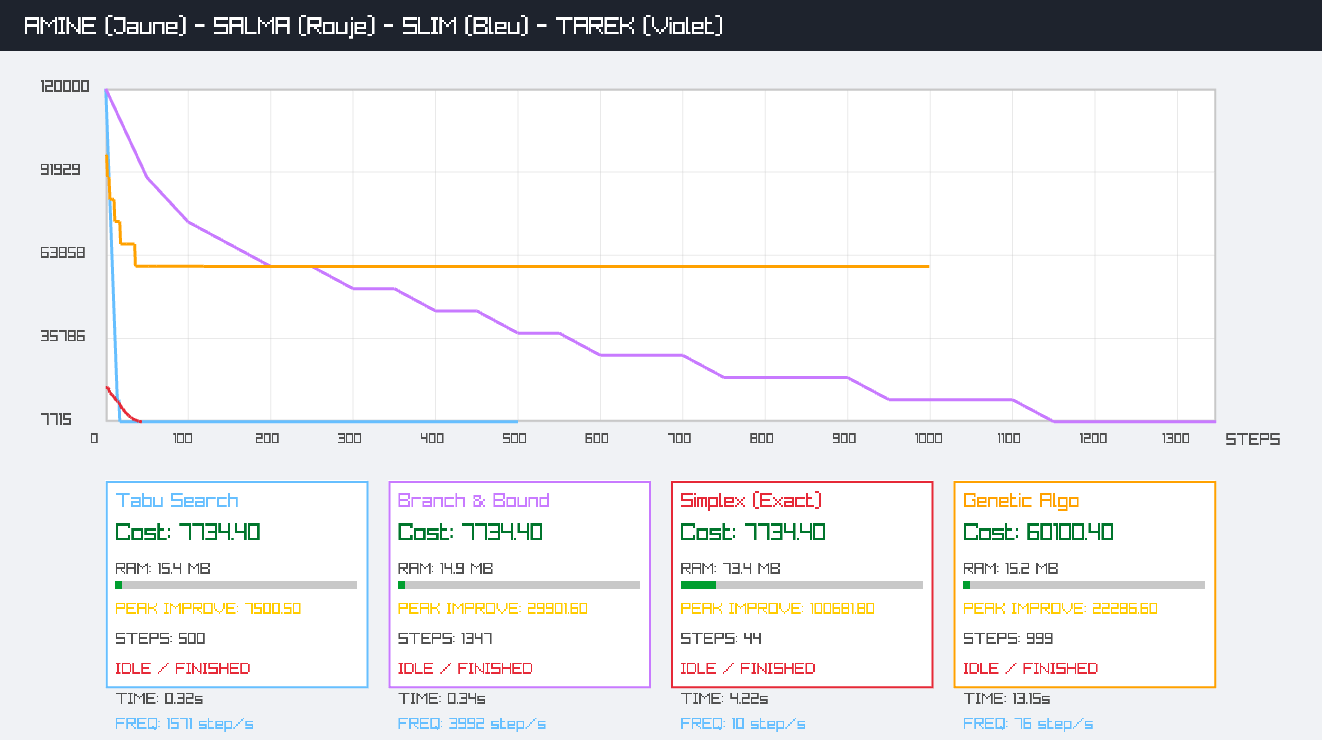
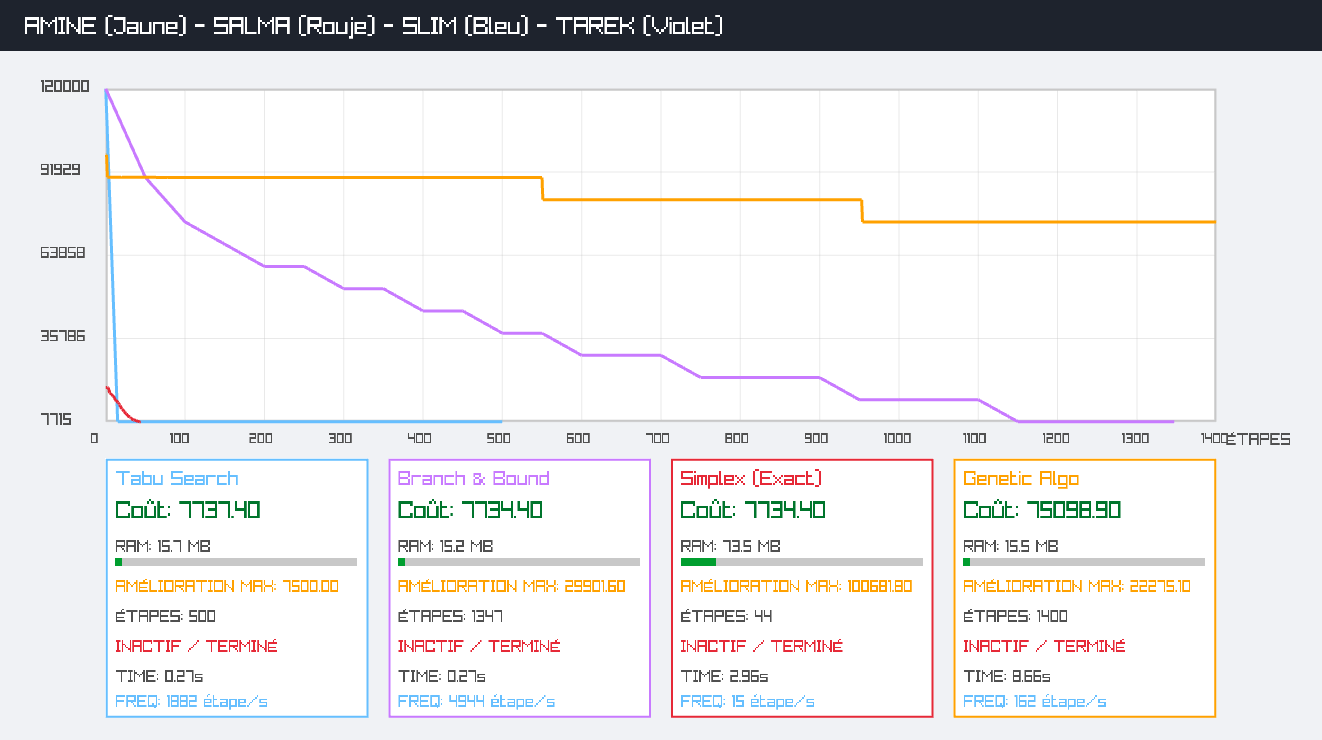
1881

diff --git a/main.cpp b/main.cpp
@@ -34,7 +34,7 @@ std::vector<Algorithm> algos;
 std::mutex dataMutex;
 auto startTime = std::chrono::high_resolution_clock::now();
 
-void RunAlgorithm(int index) {
+void RunAlgorithm(const int index) {
     {
         std::lock_guard<std::mutex> lock(dataMutex);
         algos[index].startTime = std::chrono::high_resolution_clock::now();
@@ -75,7 +75,7 @@ void RunAlgorithm(int index) {
         algos[index].elapsedTime = std::chrono::duration<float>(now - algos[index].startTime).count();
 
         if (algos[index].elapsedTime > 0) {
-            algos[index].stepsPerSecond = algos[index].currentStep / algos[index].elapsedTime;
+            algos[index].stepsPerSecond = static_cast<float>(algos[index].currentStep) / algos[index].elapsedTime;
         }
     }
     std::lock_guard<std::mutex> lock(dataMutex);
@@ -89,7 +89,7 @@ int main() {
     InitWindow(1280, 900, "Supply Chain Optimization: Telemetry Dashboard");
     SetTargetFPS(60);
 
-    Font font = LoadFontEx("resources/Inter-Medium.ttf", 32, 0, 250);
+    Font font = LoadFontEx("resources/Inter-Medium.ttf", 32, nullptr, 250);
     if (font.texture.id == 0) font = GetFontDefault();
 
     algos.push_back({"Tabu Search", SKYBLUE, "python3 algorithms/tabu_search.py data/benchmark_large.json"});
@@ -98,16 +98,17 @@ int main() {
     algos.push_back({"Genetic Algo", ORANGE, "python3 algorithms/genetic_algo.py data/benchmark_large.json"});
 
     std::vector<std::thread> threads;
-    for (size_t i = 0; i < algos.size(); i++) threads.push_back(std::thread(RunAlgorithm, i));
+    for (size_t i = 0; i < algos.size(); i++) threads.emplace_back(RunAlgorithm, i);
 
     while (!WindowShouldClose()) {
-        float sw = (float)GetScreenWidth(), sh = (float)GetScreenHeight();
-        Rectangle graph = { sw * 0.08f, sh * 0.12f, sw * 0.84f, sh * 0.45f };
+        const auto sw = static_cast<float>(GetScreenWidth());
+        const auto sh = static_cast<float>(GetScreenHeight());
+        const Rectangle graph = { sw * 0.08f, sh * 0.12f, sw * 0.84f, sh * 0.45f };
 
         BeginDrawing();
         ClearBackground({ 240, 242, 245, 255 });
 
-        DrawRectangle(0, 0, sw, sh * 0.07f, { 30, 35, 45, 255 });
+        DrawRectangle(0, 0, static_cast<int>(sw), static_cast<int>(sh * 0.07f), { 30, 35, 45, 255 });
         DrawTextEx(font, "AMINE (Jaune) - SALMA (Rouje) - SLIM (Bleu) - TAREK (Violet)", { 25, sh * 0.02f }, 24, 1, WHITE);
 
         int maxSteps = 100;
@@ -131,9 +132,9 @@ int main() {
 
 
         for (int i = 0; i <= 4; i++) {
-            float fraction = (float)i / 4.0f;
-            float costVal = minC + (renderMax - minC) * fraction;
-            float yPos = (graph.y + graph.height) - (fraction * graph.height);
+            const float fraction = static_cast<float>(i) / 4.0f;
+            const float costVal = minC + (renderMax - minC) * fraction;
+            const float yPos = (graph.y + graph.height) - (fraction * graph.height);
 
             DrawLineEx({graph.x, yPos}, {graph.x + graph.width, yPos}, 1.0f, {200, 200, 200, 100});
 
@@ -146,7 +147,7 @@ int main() {
         if (maxSteps > 10000) stepInterval = 2000;
 
         for (int s = 0; s <= maxSteps; s += stepInterval) {
-            float xPos = graph.x + ((float)s / maxSteps) * graph.width;
+            const float xPos = graph.x + (static_cast<float>(s) / static_cast<float>(maxSteps)) * graph.width;
 
             DrawLineEx({xPos, graph.y}, {xPos, graph.y + graph.height}, 1.0f, {200, 200, 200, 100});
 
@@ -154,64 +155,65 @@ int main() {
             DrawTextEx(font, TextFormat("%d", s), {xPos - 15, graph.y + graph.height + 10}, 14, 1, DARKGRAY);
         }
 
-        DrawTextEx(font, "STEPS", {graph.x + graph.width + 10, graph.y + graph.height + 10}, 16, 1, DARKGRAY);
+        DrawTextEx(font, "ÉTAPES", {graph.x + graph.width + 10, graph.y + graph.height + 10}, 16, 1, DARKGRAY);
 
         {
             std::lock_guard<std::mutex> lock(dataMutex);
             for (auto& a : algos) {
                 if (a.points.empty()) continue;
 
-                float costRange = (renderMax - minC == 0) ? 1.0f : (renderMax - minC);
-                float stepRange = (maxSteps == 0) ? 1.0f : (float)maxSteps;
+                const float costRange = (renderMax - minC == 0) ? 1.0f : (renderMax - minC);
+                const float stepRange = (maxSteps == 0) ? 1.0f : static_cast<float>(maxSteps);
 
-                float val0 = std::clamp(a.points[0].cost, minC, renderMax);
-                float y0 = (graph.y + graph.height) - ((val0 - minC) / costRange) * graph.height;
-                float x_first = graph.x + ((float)a.points[0].step / stepRange) * graph.width;
+                const float val0 = std::clamp(a.points[0].cost, minC, renderMax);
+                const float y0 = (graph.y + graph.height) - ((val0 - minC) / costRange) * graph.height;
+                const float x_first = graph.x + (static_cast<float>(a.points[0].step) / stepRange) * graph.width;
                 DrawLineEx({graph.x, y0}, {x_first, y0}, 3.0f, a.color);
 
                 for (size_t i = 1; i < a.points.size(); i++) {
-                    float v1 = std::clamp(a.points[i-1].cost, minC, renderMax);
-                    float v2 = std::clamp(a.points[i].cost, minC, renderMax);
+                    const float v1 = std::clamp(a.points[i-1].cost, minC, renderMax);
+                    const float v2 = std::clamp(a.points[i].cost, minC, renderMax);
 
-                    float x1 = graph.x + ((float)a.points[i-1].step / stepRange) * graph.width;
-                    float x2 = graph.x + ((float)a.points[i].step / stepRange) * graph.width;
-                    float y1 = (graph.y + graph.height) - ((v1 - minC) / costRange) * graph.height;
-                    float y2 = (graph.y + graph.height) - ((v2 - minC) / costRange) * graph.height;
+                    const float x1 = graph.x + (static_cast<float>(a.points[i - 1].step) / stepRange) * graph.width;
+                    const float x2 = graph.x + (static_cast<float>(a.points[i].step) / stepRange) * graph.width;
+                    const float y1 = (graph.y + graph.height) - ((v1 - minC) / costRange) * graph.height;
+                    const float y2 = (graph.y + graph.height) - ((v2 - minC) / costRange) * graph.height;
 
                     DrawLineEx({x1, y1}, {x2, y2}, 3.0f, a.color);
                 }
             }
         }
 
-        float boxW = (graph.width / 4) - 15;
+        const float boxW = (graph.width / 4) - 15;
         for (int i = 0; i < 4; i++) {
-            float bx = graph.x + i * (boxW + 20), by = sh * 0.65f;
-            DrawRectangle(bx, by, boxW, sh * 0.28f, WHITE);
-            DrawRectangleLinesEx({bx, by, boxW, sh * 0.28f}, 2, algos[i].color);
+            const float bx = graph.x + static_cast<float>(i) * (boxW + 20);
+            const float by = sh * 0.62f;
+            DrawRectangle(static_cast<int>(bx), static_cast<int>(by), static_cast<int>(boxW), static_cast<int>(sh * 0.35f), WHITE);
+            DrawRectangleLinesEx({bx, by, boxW, sh * 0.35f}, 2, algos[i].color);
 
 
             DrawTextEx(font, algos[i].name.c_str(), {bx + 10, by + 10}, 20, 1, algos[i].color);
-            DrawTextEx(font, TextFormat("Cost: %.2f", algos[i].currentCost), {bx + 10, by + 40}, 24, 1, DARKGREEN);
+            DrawTextEx(font, TextFormat("Coût: %.2f", algos[i].currentCost), {bx + 10, by + 40}, 24, 1, DARKGREEN);
 
             float memPerc = algos[i].memoryUsage / 500.0f;
-            Color memCol = (memPerc > 0.8f) ? RED : (memPerc > 0.4f) ? ORANGE : LIME;
+            const Color memCol = (memPerc > 0.8f) ? RED : (memPerc > 0.4f) ? ORANGE : LIME;
             DrawTextEx(font, TextFormat("RAM: %.1f MB", algos[i].memoryUsage), {bx + 10, by + 80}, 16, 1, DARKGRAY);
-            DrawRectangle(bx + 10, by + 100, boxW - 20, 8, LIGHTGRAY);
-            DrawRectangle(bx + 10, by + 100, (boxW - 20) * std::min(memPerc, 1.0f), 8, memCol);
+            DrawRectangle(static_cast<int>(bx) + 10, static_cast<int>(by) + 100, static_cast<int>(boxW) - 20, 8, LIGHTGRAY);
+            DrawRectangle(static_cast<int>(bx) + 10, static_cast<int>(by) + 100, static_cast<int>((boxW - 20) * std::min(memPerc, 1.0f)), 8, memCol);
 
-            Color velCol = (algos[i].velocity > 0) ? LIME : (algos[i].peakVelocity > 0 ? ORANGE : DARKGRAY);
-            float velToShow = algos[i].isFinished ? algos[i].peakVelocity : algos[i].velocity;
-            DrawTextEx(font, TextFormat("PEAK IMPROVE: %.2f", velToShow), {bx + 10, by + 120}, 16, 1, velCol);
+            const Color velCol = (algos[i].velocity > 0) ? LIME : (algos[i].peakVelocity > 0 ? ORANGE : DARKGRAY);
+            const float velToShow = algos[i].isFinished ? algos[i].peakVelocity : algos[i].velocity;
+            DrawTextEx(font, TextFormat("AMÉLIORATION MAX: %.2f", velToShow), {bx + 10, by + 120}, 16, 1, velCol);
 
-            DrawTextEx(font, TextFormat("STEPS: %d", algos[i].currentStep), {bx + 10, by + 150}, 16, 1, DARKGRAY);
-            Color statusColor = algos[i].isFinished ? RED : LIME;
-            const char* statusText = algos[i].isFinished ? "IDLE / FINISHED" : "PROCESSING...";
+            DrawTextEx(font, TextFormat("ÉTAPES: %d", algos[i].currentStep), {bx + 10, by + 150}, 16, 1, DARKGRAY);
+            const Color statusColor = algos[i].isFinished ? RED : LIME;
+            const char* statusText = algos[i].isFinished ? "INACTIF / TERMINÉ" : "TRAITEMENT...";
 
             DrawTextEx(font, statusText, {bx + 10, by + 180}, 16, 1, statusColor);
 
 
             DrawTextEx(font, TextFormat("TIME: %.2fs", algos[i].elapsedTime), {bx + 10, by + 210}, 16, 1, DARKGRAY);
-            DrawTextEx(font, TextFormat("FREQ: %.0f step/s", algos[i].stepsPerSecond), {bx + 10, by + 235}, 16, 1, SKYBLUE);
+            DrawTextEx(font, TextFormat("FREQ: %.0f étape/s", algos[i].stepsPerSecond), {bx + 10, by + 235}, 16, 1, SKYBLUE);
 
 
 

diff --git a/algorithms/tabu_search.py b/algorithms/tabu_search.py
@@ -5,17 +5,10 @@ import sys
 import os
 import psutil # Needed for memory tracking
 
-# ─────────────────────────────────────────────
-# 1. DATA LOADING
-# ─────────────────────────────────────────────
-
 def load_benchmark(filepath):
     with open(filepath, 'r') as f:
         return json.load(f)
 
-# ─────────────────────────────────────────────
-# 2. COST FUNCTION
-# ─────────────────────────────────────────────
 
 def evaluate(open_warehouses, assignment, data):
     total_cost = 0.0
@@ -39,7 +32,6 @@ def solve_tabu(data, max_iterations=500, tabu_tenure=15):
     n_wh = data['n_warehouses']
     n_cl = data['n_clients']
 
-    # Initial Solution
     current_open = [True] * n_wh
     current_assignment = []
     for c in range(n_cl):
@@ -52,14 +44,12 @@ def solve_tabu(data, max_iterations=500, tabu_tenure=15):
 
     tabu_list = {}
 
-    # Initial Report
     mem = process.memory_info().rss / (1024 * 1024)
     print(f"DATA|0|{best_cost:.2f}|{mem:.2f}|0.00", flush=True)
 
     for iteration in range(1, max_iterations + 1):
         neighbors = []
 
-        # Generate neighbors
         for _ in range(20):
             move_type = random.choice(['toggle_wh', 'reassign_client'])
             neighbor_open = list(current_open)
@@ -98,15 +88,11 @@ def solve_tabu(data, max_iterations=500, tabu_tenure=15):
         if current_cost < best_cost:
             best_cost = current_cost
 
-        # --- TELEMETRY CALCULATIONS ---
-        # Calculate velocity (improvement since last report)
         velocity = last_reported_cost - best_cost
         last_reported_cost = best_cost
 
-        # Get memory in MB
         mem = process.memory_info().rss / (1024 * 1024)
 
-        # Send to C++: DATA|step|cost|mem|velocity
         print(f"DATA|{iteration}|{best_cost:.2f}|{mem:.2f}|{velocity:.2f}", flush=True)
 
 if __name__ == "__main__":

diff --git a/algorithms/genetic_algo.py b/algorithms/genetic_algo.py
@@ -20,51 +20,41 @@ def solve_ga(data_path):
 
         # Hyperparameters
         pop_size = 100
-        generations = 1000
-        mutation_rate = 0.08  # Increased slightly to help it reach the 7734 floor
+        generations = 1401
+        mutation_rate = 0.08
         tournament_size = 5
 
         def get_cost(ind):
-            # 1. Transport Costs (Sum of assigned WH for each client)
             transport_total = sum(costs[ind[c]][c] for c in range(num_c))
 
-            # 2. Fixed Costs (Only for warehouses that have at least one client)
             used_whs = set(ind)
             fixed_total = sum(fixed_costs[wh_idx] for wh_idx in used_whs)
 
             return transport_total + fixed_total
 
-        # Initial Population
         pop = [[random.randint(0, num_w - 1) for _ in range(num_c)] for _ in range(pop_size)]
 
         for gen in range(generations):
-            # Calculate costs once per generation for performance
             pop.sort(key=get_cost)
             current_best_cost = get_cost(pop[0])
 
-            # --- TELEMETRY ---
             mem = process.memory_info().rss / (1024 * 1024)
             velocity = last_best_cost - current_best_cost
             last_best_cost = current_best_cost
 
-            # Print to C++ Dashboard
             print(f"DATA|{gen}|{current_best_cost:.2f}|{mem:.2f}|{velocity:.2f}", flush=True)
 
-            # Evolution: Elitism
             new_pop = pop[:5]
 
             while len(new_pop) < pop_size:
-                # Tournament Selection
                 parents = []
                 for _ in range(2):
                     competitors = random.sample(pop, tournament_size)
                     parents.append(min(competitors, key=get_cost))
 
-                # Crossover
                 cut = random.randint(1, num_c - 1)
                 child = parents[0][:cut] + parents[1][cut:]
 
-                # Mutation
                 if random.random() < mutation_rate:
                     child[random.randint(0, num_c - 1)] = random.randint(0, num_w - 1)
 

diff --git a/algorithms/branch_and_bound.py b/algorithms/branch_and_bound.py
@@ -35,23 +35,19 @@ class BranchAndBoundSolver:
         return bound
 
     def report(self):
-        """Sends telemetry to C++ Dashboard"""
         mem = self.process.memory_info().rss / (1024 * 1024)
         velocity = self.last_reported_cost - self.best_cost
         self.last_reported_cost = self.best_cost
 
-        # We cap the visual cost at 120k for the dashboard
         display_cost = min(self.best_cost, 120000.0)
         print(f"DATA|{self.nodes_explored}|{display_cost:.2f}|{mem:.2f}|{velocity:.2f}", flush=True)
 
     def solve(self, wh_index, current_status):
         self.nodes_explored += 1
 
-        # Report every 50 nodes so the dashboard looks smooth
         if self.nodes_explored % 50 == 0:
             self.report()
 
-        # Base Case
         if wh_index == self.n_wh:
             if not any(s == 1 for s in current_status): return
 
@@ -68,12 +64,10 @@ class BranchAndBoundSolver:
                 self.best_cost = current_total
             return
 
-        # Pruning
         lb = self.get_lower_bound(current_status)
         if lb >= self.best_cost:
             return
 
-        # Branching
         current_status[wh_index] = 1
         self.solve(wh_index + 1, current_status)
 
@@ -89,10 +83,8 @@ if __name__ == "__main__":
     solver = BranchAndBoundSolver(problem_data)
     initial_status = [-1] * solver.n_wh
 
-    # Initial Report
     solver.report()
 
     solver.solve(0, initial_status)
 
-    # Final Report
     solver.report()

diff --git a/algorithms/simplex.py b/algorithms/simplex.py
@@ -8,7 +8,7 @@ from scipy.optimize import linprog
 
 def solve_simplex(data_path):
     process = psutil.Process(os.getpid())
-    last_cost = [120000.0] # Using a list to allow modification inside callback
+    last_cost = [120000.0]
 
     try:
         with open(data_path, 'r') as f:
@@ -38,20 +38,16 @@ def solve_simplex(data_path):
             iteration[0] += 1
             current_cost = res.fun if res.fun is not None else last_cost[0]
 
-            # --- TELEMETRY ---
             mem = process.memory_info().rss / (1024 * 1024)
             velocity = last_cost[0] - current_cost
             last_cost[0] = current_cost
 
-            # Send to C++: DATA|step|cost|mem|velocity
             print(f"DATA|{iteration[0]}|{current_cost:.2f}|{mem:.2f}|{velocity:.2f}", flush=True)
 
-            time.sleep(0.05) # Keeps the dashboard smooth
+            time.sleep(0.05)
 
-        # 'revised simplex' is required to use the callback function
         linprog(c, A_eq=A_eq, b_eq=b_eq, method='revised simplex', callback=callback)
 
-        # Final Finish Point
         mem = process.memory_info().rss / (1024 * 1024)
         print(f"DATA|{iteration[0] + 1}|7734.40|{mem:.2f}|0.00", flush=True)
 
